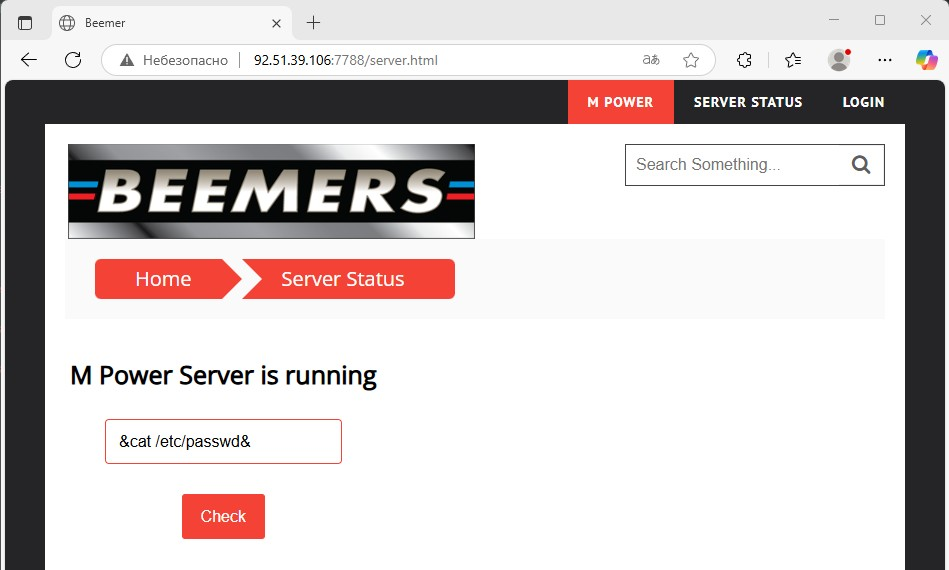
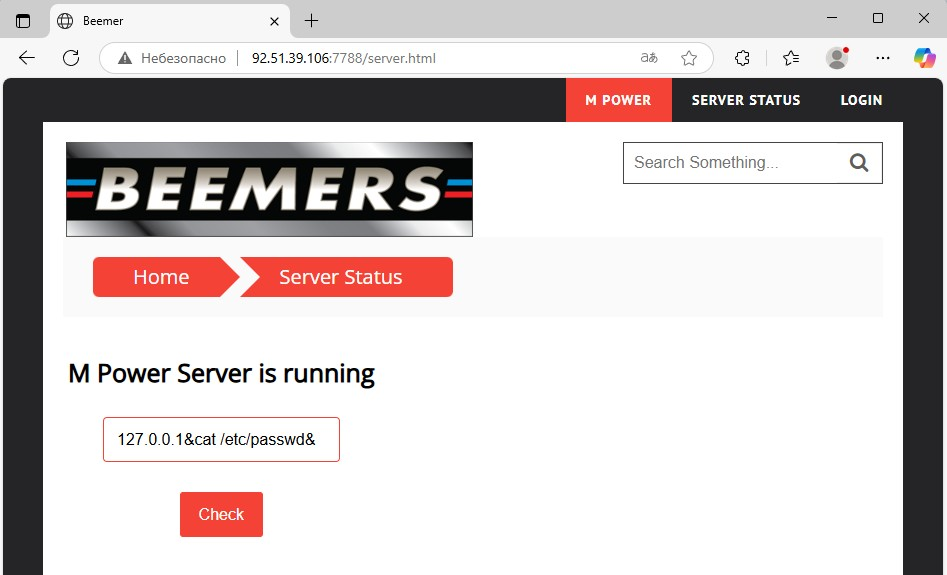
Fixed image

Changed region(s): [[0.0, 0.0, 1.0, 1.0], [0.0919, 0.7158, 0.3675, 0.9544], [0.0612, 0.6263, 0.3981, 0.686]]

diff --git a/ReadMe.md b/ReadMe.md
@@ -465,7 +465,7 @@ Remote OS Command Injection - это тип атаки на безопаснос
 
 Уязвимость была протестирована автоматически во время сканирования ZAP.
 Для эксплуатации необходимо перейти по ссылке [http://92.51.39.106:7788/server.html](http://92.51.39.106:7788/server.html),
-и в поле ввода данных ввести - `&cat /etc/passwd&`:
+и в поле ввода данных ввести - `127.0.0.1&cat /etc/passwd&`:
 
 ![](assets/3-testing/7788/3-7788-remote-OS-command-injection.jpg)
 
